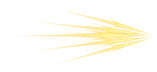
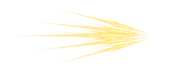
Fix Vanguard speed-line crop and add separate live controls

Changed region(s): [[0.3312, 0.1389, 0.9682, 0.8611]]

diff --git a/src/procedural-motion-preview.js b/src/procedural-motion-preview.js
@@ -413,8 +413,8 @@ function drawSpeedLineSprite(px,py,reg,d,bodyScale,amount){
  const pos=Array.isArray(spec.position)?spec.position:[20,-68];
  const minX=Number(spec.minScaleX??0.58);
  const maxX=Number(spec.maxScaleX??1);
- const sx=minX+(maxX-minX)*Math.max(0,Math.min(1,amount));
- const sy=Number(spec.scaleY??1);
+ const sx=(minX+(maxX-minX)*Math.max(0,Math.min(1,amount)))*Number(spec.manualScaleX??1);
+ const sy=Number(spec.scaleY??1)*Number(spec.manualScaleY??1);
  const alpha=Math.max(0,Math.min(1,Number(spec.alpha??0.78)))*amount;
 
  ctx.save();
@@ -686,6 +686,38 @@ function installShotgunBlastMoveScaleControls(side){
  window.__slashControls={box,controls};
 }
 
+function installSpeedLineControls(){
+ const side=document.querySelector('.side');
+ if(!side||!recipe.speedLineSprite?.enabled||side.querySelector('[data-speed-line-controls]'))return;
+ const fx=recipe.speedLineSprite;
+ const box=document.createElement('details');
+ box.open=true;
+ box.setAttribute('data-speed-line-controls','');
+ box.innerHTML=''
+  +'<summary style="font-size:15px;margin-bottom:10px">Speed Line Controls</summary>'
+  +'<div style="display:grid;grid-template-columns:92px 1fr 54px;gap:7px 8px;align-items:center;font-size:12px">'
+  +'<label>X</label><input data-sp="x" type="range" min="-250" max="450" step="1"><output data-spout="x"></output>'
+  +'<label>Y</label><input data-sp="y" type="range" min="-250" max="450" step="1"><output data-spout="y"></output>'
+  +'<label>Scale X</label><input data-sp="sx" type="range" min=".1" max="4" step=".05"><output data-spout="sx"></output>'
+  +'<label>Scale Y</label><input data-sp="sy" type="range" min=".1" max="4" step=".05"><output data-spout="sy"></output>'
+  +'<label>Alpha</label><input data-sp="a" type="range" min="0" max="1" step=".01"><output data-spout="a"></output>'
+  +'</div>'
+  +'<div style="display:flex;gap:7px;margin-top:10px;flex-wrap:wrap">'
+  +'<button data-sp-reset>Reset speed lines</button><button data-sp-copy>Copy speed-line values</button></div>';
+ const firstDetails=side.querySelector('details');
+ if(firstDetails)side.insertBefore(box,firstDetails); else side.appendChild(box);
+ const defaults={position:[...(fx.position||[0,0])],manualScaleX:Number(fx.manualScaleX??1),manualScaleY:Number(fx.manualScaleY??1),alpha:Number(fx.alpha??.78)};
+ const controls={x:box.querySelector('[data-sp="x"]'),y:box.querySelector('[data-sp="y"]'),sx:box.querySelector('[data-sp="sx"]'),sy:box.querySelector('[data-sp="sy"]'),a:box.querySelector('[data-sp="a"]')};
+ function refresh(){for(const k of ['x','y','sx','sy','a'])box.querySelector('[data-spout="'+k+'"]').textContent=controls[k].value;}
+ function setValues(){controls.x.value=fx.position?.[0]??0;controls.y.value=fx.position?.[1]??0;controls.sx.value=Number(fx.manualScaleX??1);controls.sy.value=Number(fx.manualScaleY??1);controls.a.value=Number(fx.alpha??.78);refresh();}
+ function apply(){fx.position=[Number(controls.x.value),Number(controls.y.value)];fx.manualScaleX=Number(controls.sx.value);fx.manualScaleY=Number(controls.sy.value);fx.alpha=Number(controls.a.value);refresh();render(offset);}
+ Object.values(controls).forEach(el=>{el.oninput=apply;el.onchange=apply;});
+ box.querySelector('[data-sp-reset]').onclick=()=>{fx.position=[...defaults.position];fx.manualScaleX=defaults.manualScaleX;fx.manualScaleY=defaults.manualScaleY;fx.alpha=defaults.alpha;setValues();render(offset);};
+ box.querySelector('[data-sp-copy]').onclick=async()=>{const payload={position:fx.position,manualScaleX:fx.manualScaleX,manualScaleY:fx.manualScaleY,alpha:fx.alpha};const txt=JSON.stringify(payload,null,2);try{await navigator.clipboard.writeText(txt)}catch{}console.log('SPEED_LINE_VALUES',txt);box.querySelector('[data-sp-copy]').textContent='Copied';setTimeout(()=>box.querySelector('[data-sp-copy]').textContent='Copy speed-line values',800);};
+ setValues();
+ window.__speedLineControls={box,controls};
+}
+
 function installSlashControls(){
  const side=document.querySelector('.side');
  if(!side||side.querySelector('[data-slash-controls]'))return;
@@ -851,6 +883,7 @@ try{
  buildSlash();
  for(const [id,src] of Object.entries(recipe.sources))if(src.role==='body')body(id);
  installSlashControls();
+ installSpeedLineControls();
  render(0);
  requestAnimationFrame(()=>{fit();requestAnimationFrame(loop)});
 }catch(err){document.querySelector('#app').innerHTML='<pre style="padding:18px;color:#ff8a8a;white-space:pre-wrap"></pre>';document.querySelector('#app pre').textContent=err?.stack||String(err)}
